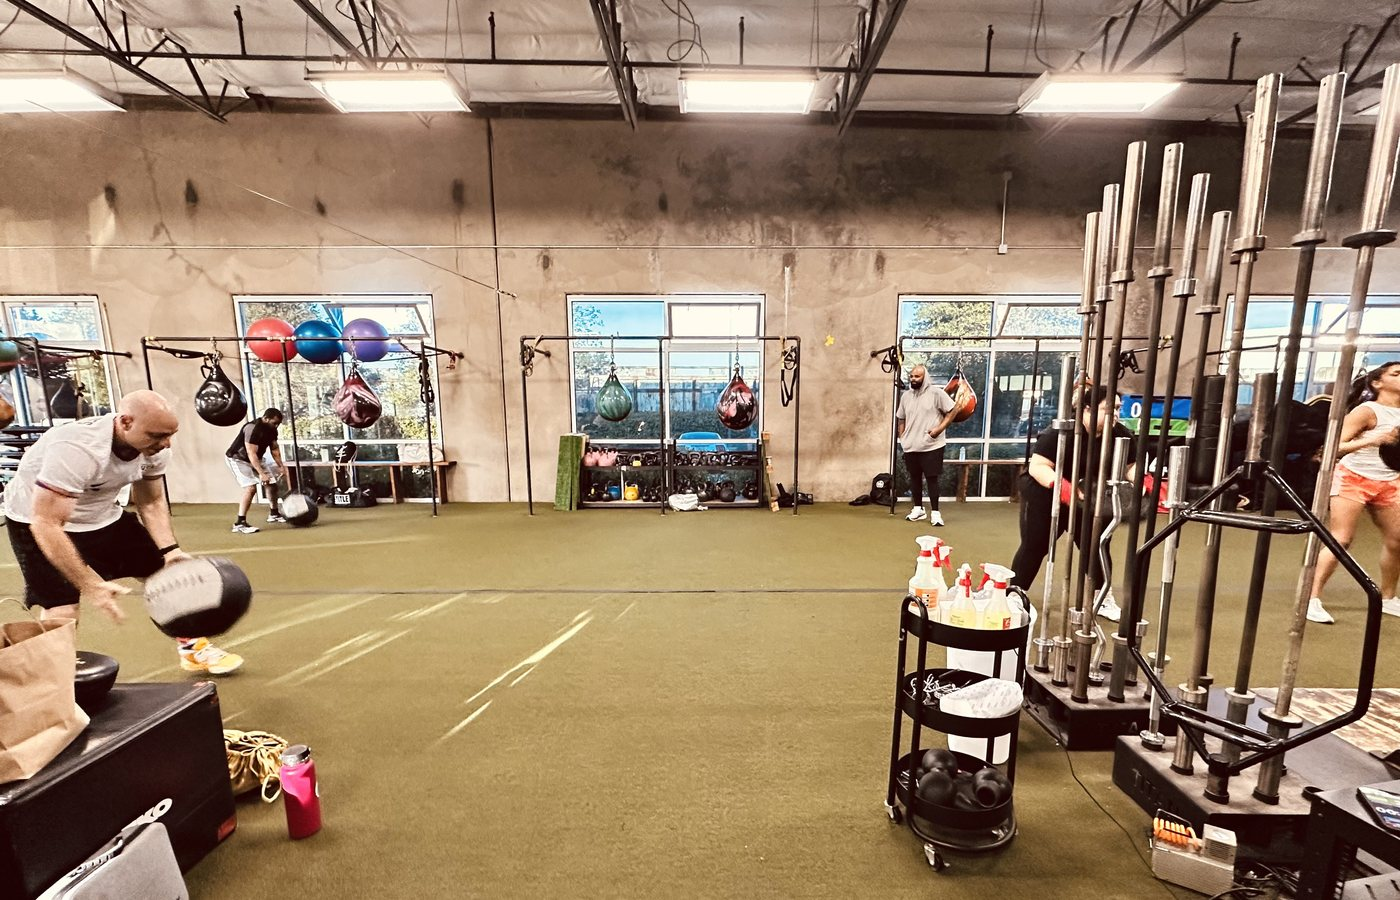
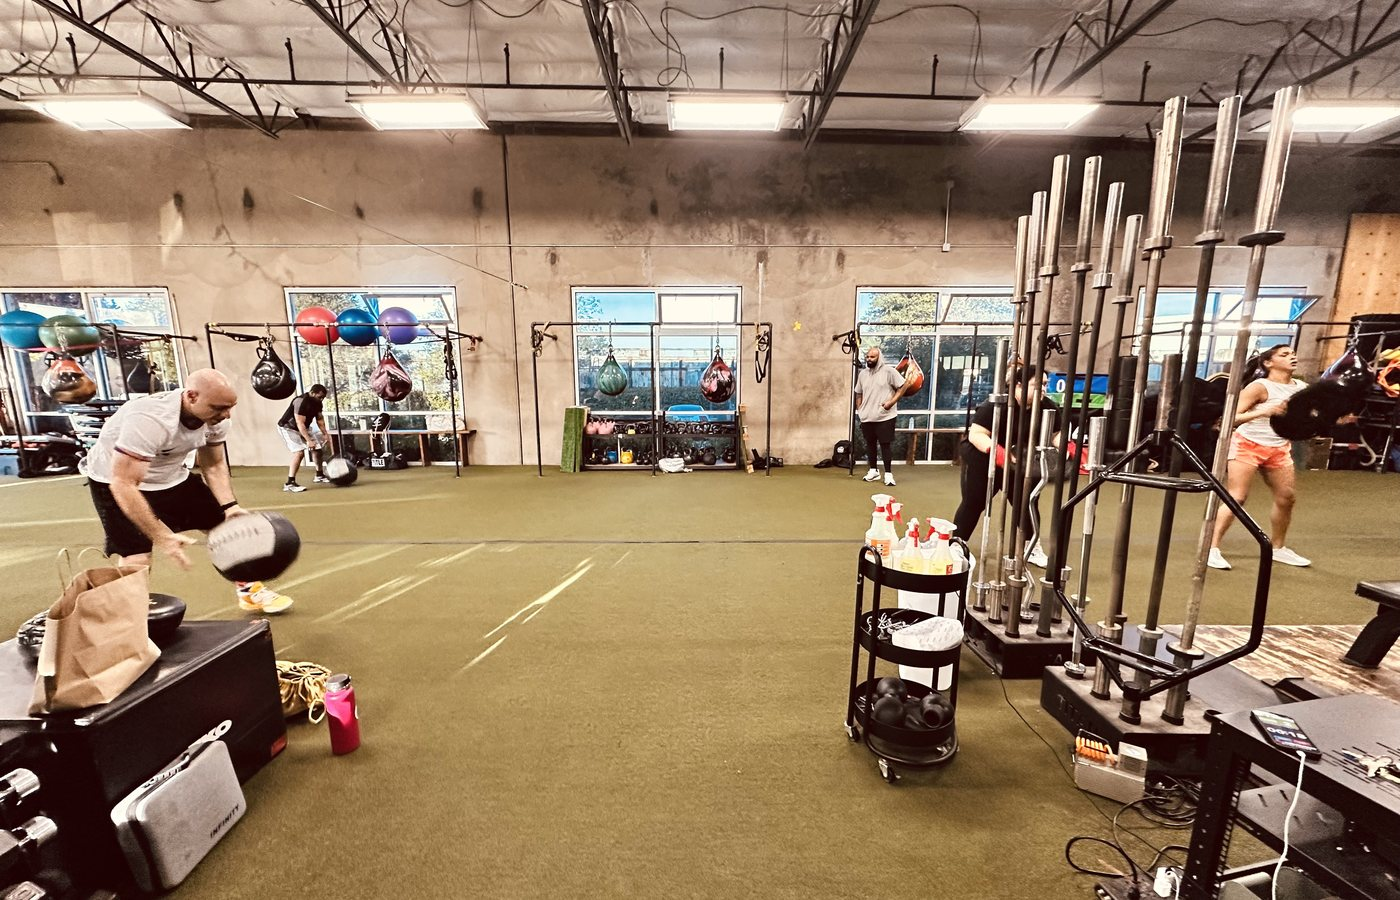
Fix heads being cropped out of photos site-wide
Images were cropped twice: once when the JPEGs were generated, then
again by object-fit:cover in the card and gallery containers. The
second crop took from the vertical centre, which cut off faces.

- regenerated card images at the ~2.7:1 shape the cards actually
  render at, framed high so heads are kept
- regenerated the two gallery shots with the same bias
- anchored object-position to the upper third on .cls img and .gal img
  so any further cover-crop takes from the bottom, not the top
- width/height attributes updated to the new dimensions

Claude-Session: https://claude.ai/code/session_01Gmgyqhr2s7PGfW8ae1QxJr

diff --git a/index.html b/index.html
@@ -114,7 +114,7 @@
 
   .cls-grid{display:grid;grid-template-columns:1fr;gap:18px;margin-top:38px}
   .cls{background:#fff;border:1px solid var(--line);border-radius:2px;overflow:hidden;display:flex;flex-direction:column}
-  .cls img{width:100%;height:200px;object-fit:cover;display:block}
+  .cls img{width:100%;height:200px;object-fit:cover;object-position:50% 22%;display:block}
   .cls .body{padding:26px;display:flex;flex-direction:column;gap:11px;flex:1}
   .cls .tag{font:700 12px/1 'Barlow',sans-serif;letter-spacing:.14em;text-transform:uppercase;color:var(--red)}
   .cls h3{font-size:27px;font-weight:700;color:var(--navy)}
@@ -128,7 +128,7 @@
 
   /* gallery */
   .gal{display:grid;grid-template-columns:repeat(2,1fr);gap:12px;margin-top:36px}
-  .gal img,.gal video{width:100%;height:100%;min-height:180px;object-fit:cover;display:block;border-radius:2px}
+  .gal img,.gal video{width:100%;height:100%;min-height:180px;object-fit:cover;object-position:50% 25%;display:block;border-radius:2px}
   .gal .tall{grid-row:span 2}
 
   /* schedule + pricing */
@@ -415,7 +415,7 @@
 
     <div class="cls-grid">
       <div class="cls">
-        <img src="assets/photos/card-group.jpg" alt="Members training together at Bedroom Body Boxing" width="1000" height="600" loading="lazy" decoding="async">
+        <img src="assets/photos/card-group.jpg" alt="Members training together at Bedroom Body Boxing" width="1200" height="444" loading="lazy" decoding="async">
         <div class="body">
           <div class="tag">Group class · All levels · 1 hour</div>
           <h3>Bedroom Body Boxing</h3>
@@ -429,7 +429,7 @@
       </div>
 
       <div class="cls">
-        <img src="assets/photos/card-personal.jpg" alt="Coach Lance in the gym" width="1000" height="600" loading="lazy" decoding="async">
+        <img src="assets/photos/card-personal.jpg" alt="Coach Lance in the gym" width="1200" height="444" loading="lazy" decoding="async">
         <div class="body">
           <div class="tag">One-on-one · All levels · 1 hour</div>
           <h3>Personal Boxing &amp; Conditioning</h3>
@@ -503,7 +503,7 @@
     <p class="sub">Professionals, parents, kids, athletes, beginners, experienced fighters and grandparents — training in the same hour.</p>
     <div class="gal">
       <img class="tall" src="assets/photos/room-group.jpg" style="min-height:380px"
-           alt="Members of different ages training side by side" width="1400" height="1100" loading="lazy" decoding="async">
+           alt="Members of different ages training side by side" width="1400" height="1150" loading="lazy" decoding="async">
       <img src="assets/photos/room-wide.jpg" alt="The training floor at Bedroom Body Boxing" width="1400" height="900" loading="lazy" decoding="async">
       <video autoplay muted loop playsinline preload="metadata" poster="assets/video/gym-poster.jpg">
         <source src="assets/video/gym-loop-2.mp4" type="video/mp4">
